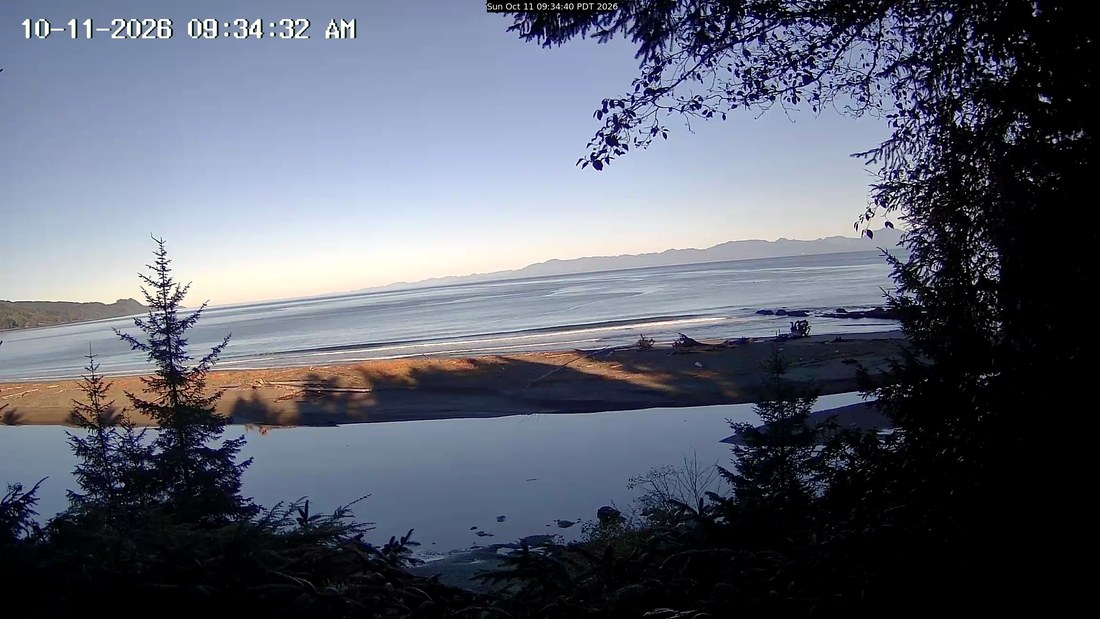
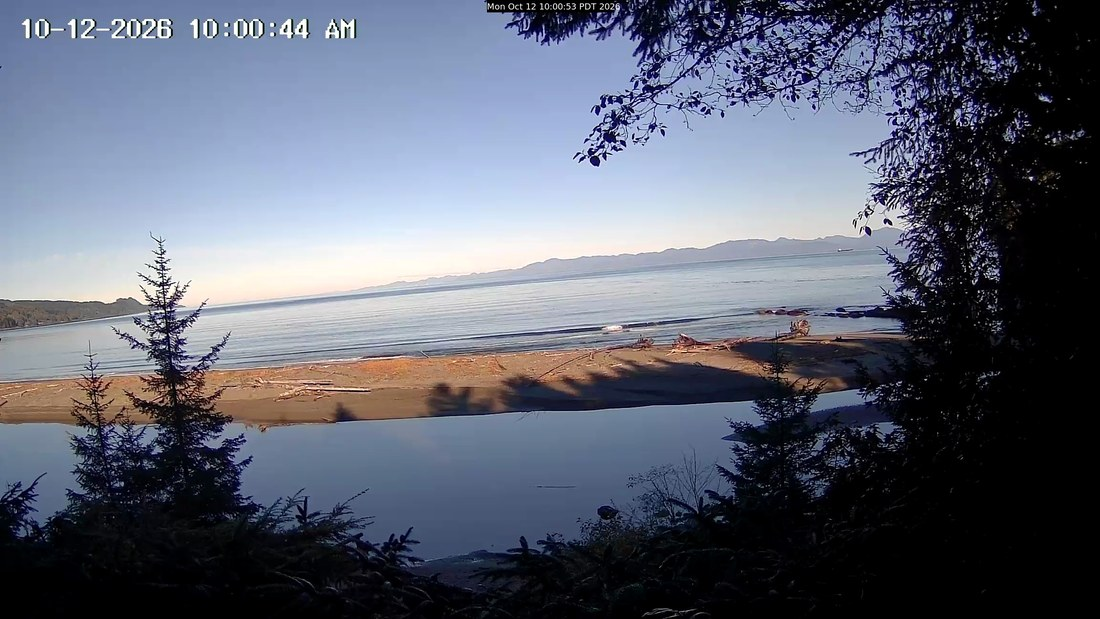
Cam capture 2026-10-12_1000

diff --git a/strait_cam.html b/strait_cam.html
@@ -1,1 +1,1 @@
-<!DOCTYPE html><html><head><meta charset='utf-8'><meta name='viewport' content='width=device-width, initial-scale=1'><title>The Strait cam</title><style>body{font-family:Georgia,serif;max-width:1200px;margin:0 auto;padding:24px}h1{margin:0 0 10px}.intro{color:#666;font-size:14px;margin:0 0 24px}.day-card{margin:0 0 30px}.day-card h3{margin:0 0 10px;font-size:22px}.time{color:#888;font-weight:400}.meta{color:#666;font-size:13px;font-weight:400}.frame-grid{display:grid;grid-template-columns:repeat(3,minmax(0,1fr));gap:10px}.frame-btn{background:#fff;border:1px solid #ddd;padding:0;cursor:pointer}.frame-img{display:block;width:100%;height:auto}.hint{font-size:12px;color:#666;margin-top:6px}.lightbox{position:fixed;inset:0;background:rgba(0,0,0,.92);display:none;align-items:center;justify-content:center;padding:20px;z-index:1000}.lightbox.open{display:flex}.lightbox img{max-width:100%;max-height:100%;object-fit:contain}.lightbox-close{position:absolute;top:14px;right:14px;font-size:28px;line-height:1;border:1px solid #fff;background:rgba(0,0,0,.35);color:#fff;padding:4px 12px;cursor:pointer}</style></head><body><h1>The Strait — cam review</h1><p class='intro'>Three morning frames per day (9/10/11am) from the Sekiu/Hoko cam — each is the most active of its ~5-min burst. Forward-only (no archive before we started). Click a thumbnail to expand.</p><section class='day-card'><h3>2026-10-12 <span class='meta'>Angeles Pt buoy 1.3ft @ 8s · verdict SKIP</span></h3><div class='frame-grid'><figure style='margin:0'><button type='button' class='frame-btn'><img src='cam/2026-10-12_0900_strait.jpg' class='frame-img' data-full='cam/2026-10-12_0900_strait.jpg' alt='Strait (Sekiu/Hoko) 2026-10-12 09:00'></button><figcaption class='small' style='text-align:center;color:#888'>09:00</figcaption></figure></div><div class='hint'>Most-active frame from each ~5-min burst (we keep the one with the most whitewater, since the strait is flat between sets). Sekiu/Hoko cam, W entrance ~40mi W of the spot — a read on swell &amp; wind arriving, not the break. Click any frame to enlarge.</div></section><section class='day-card'><h3>2026-10-11 <span class='meta'>Angeles Pt buoy 2.3ft @ 10s · verdict SKIP</span></h3><div class='frame-grid'><figure style='margin:0'><button type='button' class='frame-btn'><img src='cam/2026-10-11_0900_strait.jpg' class='frame-img' data-full='cam/2026-10-11_0900_strait.jpg' alt='Strait (Sekiu/Hoko) 2026-10-11 09:00'></button><figcaption class='small' style='text-align:center;color:#888'>09:00</figcaption></figure><figure style='margin:0'><button type='button' class='frame-btn'><img src='cam/2026-10-11_1000_strait.jpg' class='frame-img' data-full='cam/2026-10-11_1000_strait.jpg' alt='Strait (Sekiu/Hoko) 2026-10-11 10:00'></button><figcaption class='small' style='text-align:center;color:#888'>10:00</figcaption></figure><figure style='margin:0'><button type='button' class='frame-btn'><img src='cam/2026-10-11_1100_strait.jpg' class='frame-img' data-full='cam/2026-10-11_1100_strait.jpg' alt='Strait (Sekiu/Hoko) 2026-10-11 11:00'></button><figcaption class='small' style='text-align:center;color:#888'>11:00</figcaption></figure></div><div class='hint'>Most-active frame from each ~5-min burst (we keep the one with the most whitewater, since the strait is flat between sets). Sekiu/Hoko cam, W entrance ~40mi W of the spot — a read on swell &amp; wind arriving, not the break. Click any frame to enlarge.</div></section><section class='day-card'><h3>2026-10-10 <span class='meta'>Angeles Pt buoy 5.9ft @ 11s · verdict GO</span></h3><div class='frame-grid'><figure style='margin:0'><button type='button' class='frame-btn'><img src='cam/2026-10-10_0900_strait.jpg' class='frame-img' data-full='cam/2026-10-10_0900_strait.jpg' alt='Strait (Sekiu/Hoko) 2026-10-10 09:00'></button><figcaption class='small' style='text-align:center;color:#888'>09:00</figcaption></figure><figure style='margin:0'><button type='button' class='frame-btn'><img src='cam/2026-10-10_1000_strait.jpg' class='frame-img' data-full='cam/2026-10-10_1000_strait.jpg' alt='Strait (Sekiu/Hoko) 2026-10-10 10:00'></button><figcaption class='small' style='text-align:center;color:#888'>10:00</figcaption></figure><figure style='margin:0'><button type='button' class='frame-btn'><img src='cam/2026-10-10_1100_strait.jpg' class='frame-img' data-full='cam/2026-10-10_1100_strait.jpg' alt='Strait (Sekiu/Hoko) 2026-10-10 11:00'></button><figcaption class='small' style='text-align:center;color:#888'>11:00</figcaption></figure></div><div class='hint'>Most-active frame from each ~5-min burst (we keep the one with the most whitewater, since the strait is flat between sets). Sekiu/Hoko cam, W entrance ~40mi W of the spot — a read on swell &amp; wind arriving, not the break. Click any frame to enlarge.</div></section><section class='day-card'><h3>2026-10-09 <span class='meta'>Angeles Pt buoy 5.2ft @ 10s · verdict MAYBE</span></h3><div class='frame-grid'><figure style='margin:0'><button type='button' class='frame-btn'><img src='cam/2026-10-09_0900_strait.jpg' class='frame-img' data-full='cam/2026-10-09_0900_strait.jpg' alt='Strait (Sekiu/Hoko) 2026-10-09 09:00'></button><figcaption class='small' style='text-align:center;color:#888'>09:00</figcaption></figure><figure style='margin:0'><button type='button' class='frame-btn'><img src='cam/2026-10-09_1000_strait.jpg' class='frame-img' data-full='cam/2026-10-09_1000_strait.jpg' alt='Strait (Sekiu/Hoko) 2026-10-09 10:00'></button><figcaption class='small' style='text-align:center;color:#888'>10:00</figcaption></figure><figure style='margin:0'><button type='button' class='frame-btn'><img src='cam/2026-10-09_1100_strait.jpg' class='frame-img' data-full='cam/2026-10-09_1100_strait.jpg' alt='Strait (Sekiu/Hoko) 2026-10-09 11:00'></button><figcaption class='small' style='text-align:center;color:#888'>11:00</figcaption></figure></div><div class='hint'>Most-active frame from each ~5-min burst (we keep the one with the most whitewater, since the strait is flat between sets). Sekiu/Hoko cam, W entrance ~40mi W of the spot — a read on swell &amp; wind arriving, not the break. Click any frame to enlarge.</div></section><section class='day-card'><h3>2026-10-08 <span class='meta'>Angeles Pt buoy 4.3ft @ 5s · verdict GO</span></h3><div class='frame-grid'><figure style='margin:0'><button type='button' class='frame-btn'><img src='cam/2026-10-08_0900_strait.jpg' class='frame-img' data-full='cam/2026-10-08_0900_strait.jpg' alt='Strait (Sekiu/Hoko) 2026-10-08 09:00'></button><figcaption class='small' style='text-align:center;color:#888'>09:00</figcaption></figure><figure style='margin:0'><button type='button' class='frame-btn'><img src='cam/2026-10-08_1000_strait.jpg' class='frame-img' data-full='cam/2026-10-08_1000_strait.jpg' alt='Strait (Sekiu/Hoko) 2026-10-08 10:00'></button><figcaption class='small' style='text-align:center;color:#888'>10:00</figcaption></figure><figure style='margin:0'><button type='button' class='frame-btn'><img src='cam/2026-10-08_1100_strait.jpg' class='frame-img' data-full='cam/2026-10-08_1100_strait.jpg' alt='Strait (Sekiu/Hoko) 2026-10-08 11:00'></button><figcaption class='small' style='text-align:center;color:#888'>11:00</figcaption></figure></div><div class='hint'>Most-active frame from each ~5-min burst (we keep the one with the most whitewater, since the strait is flat between sets). Sekiu/Hoko cam, W entrance ~40mi W of the spot — a read on swell &amp; wind arriving, not the break. Click any frame to enlarge.</div></section><section class='day-card'><h3>2026-10-07 <span class='meta'>Angeles Pt buoy 3.6ft @ 10s · verdict GO</span></h3><div class='frame-grid'><figure style='margin:0'><button type='button' class='frame-btn'><img src='cam/2026-10-07_0900_strait.jpg' class='frame-img' data-full='cam/2026-10-07_0900_strait.jpg' alt='Strait (Sekiu/Hoko) 2026-10-07 09:00'></button><figcaption class='small' style='text-align:center;color:#888'>09:00</figcaption></figure><figure style='margin:0'><button type='button' class='frame-btn'><img src='cam/2026-10-07_1000_strait.jpg' class='frame-img' data-full='cam/2026-10-07_1000_strait.jpg' alt='Strait (Sekiu/Hoko) 2026-10-07 10:00'></button><figcaption class='small' style='text-align:center;color:#888'>10:00</figcaption></figure><figure style='margin:0'><button type='button' class='frame-btn'><img src='cam/2026-10-07_1100_strait.jpg' class='frame-img' data-full='cam/2026-10-07_1100_strait.jpg' alt='Strait (Sekiu/Hoko) 2026-10-07 11:00'></button><figcaption class='small' style='text-align:center;color:#888'>11:00</figcaption></figure></div><div class='hint'>Most-active frame from each ~5-min burst (we keep the one with the most whitewater, since the strait is flat between sets). Sekiu/Hoko cam, W entrance ~40mi W of the spot — a read on swell &amp; wind arriving, not the break. Click any frame to enlarge.</div></section><section class='day-card'><h3>2026-10-06 <span class='meta'>Angeles Pt buoy 2.6ft @ 9s · verdict SKIP</span></h3><div class='frame-grid'><figure style='margin:0'><button type='button' class='frame-btn'><img src='cam/2026-10-06_0900_strait.jpg' class='frame-img' data-full='cam/2026-10-06_0900_strait.jpg' alt='Strait (Sekiu/Hoko) 2026-10-06 09:00'></button><figcaption class='small' style='text-align:center;color:#888'>09:00</figcaption></figure><figure style='margin:0'><button type='button' class='frame-btn'><img src='cam/2026-10-06_1000_strait.jpg' class='frame-img' data-full='cam/2026-10-06_1000_strait.jpg' alt='Strait (Sekiu/Hoko) 2026-10-06 10:00'></button><figcaption class='small' style='text-align:center;color:#888'>10:00</figcaption></figure><figure style='margin:0'><button type='button' class='frame-btn'><img src='cam/2026-10-06_1100_strait.jpg' class='frame-img' data-full='cam/2026-10-06_1100_strait.jpg' alt='Strait (Sekiu/Hoko) 2026-10-06 11:00'></button><figcaption class='small' style='text-align:center;color:#888'>11:00</figcaption></figure></div><div class='hint'>Most-active frame from each ~5-min burst (we keep the one with the most whitewater, since the strait is flat between sets). Sekiu/Hoko cam, W entrance ~40mi W of the spot — a read on swell &amp; wind arriving, not the break. Click any frame to enlarge.</div></section><section class='day-card'><h3>2026-10-05 <span class='meta'>Angeles Pt buoy 3.3ft @ 10s · verdict SKIP</span></h3><div class='frame-grid'><figure style='margin:0'><button type='button' class='frame-btn'><img src='cam/2026-10-05_0900_strait.jpg' class='frame-img' data-full='cam/2026-10-05_0900_strait.jpg' alt='Strait (Sekiu/Hoko) 2026-10-05 09:00'></button><figcaption class='small' style='text-align:center;color:#888'>09:00</figcaption></figure><figure style='margin:0'><button type='button' class='frame-btn'><img src='cam/2026-10-05_1000_strait.jpg' class='frame-img' data-full='cam/2026-10-05_1000_strait.jpg' alt='Strait (Sekiu/Hoko) 2026-10-05 10:00'></button><figcaption class='small' style='text-align:center;color:#888'>10:00</figcaption></figure><figure style='margin:0'><button type='button' class='frame-btn'><img src='cam/2026-10-05_1100_strait.jpg' class='frame-img' data-full='cam/2026-10-05_1100_strait.jpg' alt='Strait (Sekiu/Hoko) 2026-10-05 11:00'></button><figcaption class='small' style='text-align:center;color:#888'>11:00</figcaption></figure></div><div class='hint'>Most-active frame from each ~5-min burst (we keep the one with the most whitewater, since the strait is flat between sets). Sekiu/Hoko cam, W entrance ~40mi W of the spot — a read on swell &amp; wind arriving, not the break. Click any frame to enlarge.</div></section><div id='lightbox' class='lightbox' aria-hidden='true'><button id='lightbox-close' class='lightbox-close' aria-label='Close image view'>&times;</button><img id='lightbox-image' alt='Selected frame'></div><script>const lightbox=document.getElementById('lightbox');const lightboxImg=document.getElementById('lightbox-image');const closeBtn=document.getElementById('lightbox-close');document.querySelectorAll('.frame-img').forEach((img)=>{img.addEventListener('click',()=>{lightboxImg.src=img.dataset.full||img.src;lightbox.classList.add('open');lightbox.setAttribute('aria-hidden','false');});});function closeLightbox(){lightbox.classList.remove('open');lightbox.setAttribute('aria-hidden','true');lightboxImg.src='';}closeBtn.addEventListener('click',closeLightbox);lightbox.addEventListener('click',(e)=>{if(e.target===lightbox){closeLightbox();}});document.addEventListener('keydown',(e)=>{if(e.key==='Escape'&&lightbox.classList.contains('open')){closeLightbox();}});</script></body></html>
+<!DOCTYPE html><html><head><meta charset='utf-8'><meta name='viewport' content='width=device-width, initial-scale=1'><title>The Strait cam</title><style>body{font-family:Georgia,serif;max-width:1200px;margin:0 auto;padding:24px}h1{margin:0 0 10px}.intro{color:#666;font-size:14px;margin:0 0 24px}.day-card{margin:0 0 30px}.day-card h3{margin:0 0 10px;font-size:22px}.time{color:#888;font-weight:400}.meta{color:#666;font-size:13px;font-weight:400}.frame-grid{display:grid;grid-template-columns:repeat(3,minmax(0,1fr));gap:10px}.frame-btn{background:#fff;border:1px solid #ddd;padding:0;cursor:pointer}.frame-img{display:block;width:100%;height:auto}.hint{font-size:12px;color:#666;margin-top:6px}.lightbox{position:fixed;inset:0;background:rgba(0,0,0,.92);display:none;align-items:center;justify-content:center;padding:20px;z-index:1000}.lightbox.open{display:flex}.lightbox img{max-width:100%;max-height:100%;object-fit:contain}.lightbox-close{position:absolute;top:14px;right:14px;font-size:28px;line-height:1;border:1px solid #fff;background:rgba(0,0,0,.35);color:#fff;padding:4px 12px;cursor:pointer}</style></head><body><h1>The Strait — cam review</h1><p class='intro'>Three morning frames per day (9/10/11am) from the Sekiu/Hoko cam — each is the most active of its ~5-min burst. Forward-only (no archive before we started). Click a thumbnail to expand.</p><section class='day-card'><h3>2026-10-12 <span class='meta'>Angeles Pt buoy 1.3ft @ 8s · verdict SKIP</span></h3><div class='frame-grid'><figure style='margin:0'><button type='button' class='frame-btn'><img src='cam/2026-10-12_0900_strait.jpg' class='frame-img' data-full='cam/2026-10-12_0900_strait.jpg' alt='Strait (Sekiu/Hoko) 2026-10-12 09:00'></button><figcaption class='small' style='text-align:center;color:#888'>09:00</figcaption></figure><figure style='margin:0'><button type='button' class='frame-btn'><img src='cam/2026-10-12_1000_strait.jpg' class='frame-img' data-full='cam/2026-10-12_1000_strait.jpg' alt='Strait (Sekiu/Hoko) 2026-10-12 10:00'></button><figcaption class='small' style='text-align:center;color:#888'>10:00</figcaption></figure></div><div class='hint'>Most-active frame from each ~5-min burst (we keep the one with the most whitewater, since the strait is flat between sets). Sekiu/Hoko cam, W entrance ~40mi W of the spot — a read on swell &amp; wind arriving, not the break. Click any frame to enlarge.</div></section><section class='day-card'><h3>2026-10-11 <span class='meta'>Angeles Pt buoy 2.3ft @ 10s · verdict SKIP</span></h3><div class='frame-grid'><figure style='margin:0'><button type='button' class='frame-btn'><img src='cam/2026-10-11_0900_strait.jpg' class='frame-img' data-full='cam/2026-10-11_0900_strait.jpg' alt='Strait (Sekiu/Hoko) 2026-10-11 09:00'></button><figcaption class='small' style='text-align:center;color:#888'>09:00</figcaption></figure><figure style='margin:0'><button type='button' class='frame-btn'><img src='cam/2026-10-11_1000_strait.jpg' class='frame-img' data-full='cam/2026-10-11_1000_strait.jpg' alt='Strait (Sekiu/Hoko) 2026-10-11 10:00'></button><figcaption class='small' style='text-align:center;color:#888'>10:00</figcaption></figure><figure style='margin:0'><button type='button' class='frame-btn'><img src='cam/2026-10-11_1100_strait.jpg' class='frame-img' data-full='cam/2026-10-11_1100_strait.jpg' alt='Strait (Sekiu/Hoko) 2026-10-11 11:00'></button><figcaption class='small' style='text-align:center;color:#888'>11:00</figcaption></figure></div><div class='hint'>Most-active frame from each ~5-min burst (we keep the one with the most whitewater, since the strait is flat between sets). Sekiu/Hoko cam, W entrance ~40mi W of the spot — a read on swell &amp; wind arriving, not the break. Click any frame to enlarge.</div></section><section class='day-card'><h3>2026-10-10 <span class='meta'>Angeles Pt buoy 5.9ft @ 11s · verdict GO</span></h3><div class='frame-grid'><figure style='margin:0'><button type='button' class='frame-btn'><img src='cam/2026-10-10_0900_strait.jpg' class='frame-img' data-full='cam/2026-10-10_0900_strait.jpg' alt='Strait (Sekiu/Hoko) 2026-10-10 09:00'></button><figcaption class='small' style='text-align:center;color:#888'>09:00</figcaption></figure><figure style='margin:0'><button type='button' class='frame-btn'><img src='cam/2026-10-10_1000_strait.jpg' class='frame-img' data-full='cam/2026-10-10_1000_strait.jpg' alt='Strait (Sekiu/Hoko) 2026-10-10 10:00'></button><figcaption class='small' style='text-align:center;color:#888'>10:00</figcaption></figure><figure style='margin:0'><button type='button' class='frame-btn'><img src='cam/2026-10-10_1100_strait.jpg' class='frame-img' data-full='cam/2026-10-10_1100_strait.jpg' alt='Strait (Sekiu/Hoko) 2026-10-10 11:00'></button><figcaption class='small' style='text-align:center;color:#888'>11:00</figcaption></figure></div><div class='hint'>Most-active frame from each ~5-min burst (we keep the one with the most whitewater, since the strait is flat between sets). Sekiu/Hoko cam, W entrance ~40mi W of the spot — a read on swell &amp; wind arriving, not the break. Click any frame to enlarge.</div></section><section class='day-card'><h3>2026-10-09 <span class='meta'>Angeles Pt buoy 5.2ft @ 10s · verdict MAYBE</span></h3><div class='frame-grid'><figure style='margin:0'><button type='button' class='frame-btn'><img src='cam/2026-10-09_0900_strait.jpg' class='frame-img' data-full='cam/2026-10-09_0900_strait.jpg' alt='Strait (Sekiu/Hoko) 2026-10-09 09:00'></button><figcaption class='small' style='text-align:center;color:#888'>09:00</figcaption></figure><figure style='margin:0'><button type='button' class='frame-btn'><img src='cam/2026-10-09_1000_strait.jpg' class='frame-img' data-full='cam/2026-10-09_1000_strait.jpg' alt='Strait (Sekiu/Hoko) 2026-10-09 10:00'></button><figcaption class='small' style='text-align:center;color:#888'>10:00</figcaption></figure><figure style='margin:0'><button type='button' class='frame-btn'><img src='cam/2026-10-09_1100_strait.jpg' class='frame-img' data-full='cam/2026-10-09_1100_strait.jpg' alt='Strait (Sekiu/Hoko) 2026-10-09 11:00'></button><figcaption class='small' style='text-align:center;color:#888'>11:00</figcaption></figure></div><div class='hint'>Most-active frame from each ~5-min burst (we keep the one with the most whitewater, since the strait is flat between sets). Sekiu/Hoko cam, W entrance ~40mi W of the spot — a read on swell &amp; wind arriving, not the break. Click any frame to enlarge.</div></section><section class='day-card'><h3>2026-10-08 <span class='meta'>Angeles Pt buoy 4.3ft @ 5s · verdict GO</span></h3><div class='frame-grid'><figure style='margin:0'><button type='button' class='frame-btn'><img src='cam/2026-10-08_0900_strait.jpg' class='frame-img' data-full='cam/2026-10-08_0900_strait.jpg' alt='Strait (Sekiu/Hoko) 2026-10-08 09:00'></button><figcaption class='small' style='text-align:center;color:#888'>09:00</figcaption></figure><figure style='margin:0'><button type='button' class='frame-btn'><img src='cam/2026-10-08_1000_strait.jpg' class='frame-img' data-full='cam/2026-10-08_1000_strait.jpg' alt='Strait (Sekiu/Hoko) 2026-10-08 10:00'></button><figcaption class='small' style='text-align:center;color:#888'>10:00</figcaption></figure><figure style='margin:0'><button type='button' class='frame-btn'><img src='cam/2026-10-08_1100_strait.jpg' class='frame-img' data-full='cam/2026-10-08_1100_strait.jpg' alt='Strait (Sekiu/Hoko) 2026-10-08 11:00'></button><figcaption class='small' style='text-align:center;color:#888'>11:00</figcaption></figure></div><div class='hint'>Most-active frame from each ~5-min burst (we keep the one with the most whitewater, since the strait is flat between sets). Sekiu/Hoko cam, W entrance ~40mi W of the spot — a read on swell &amp; wind arriving, not the break. Click any frame to enlarge.</div></section><section class='day-card'><h3>2026-10-07 <span class='meta'>Angeles Pt buoy 3.6ft @ 10s · verdict GO</span></h3><div class='frame-grid'><figure style='margin:0'><button type='button' class='frame-btn'><img src='cam/2026-10-07_0900_strait.jpg' class='frame-img' data-full='cam/2026-10-07_0900_strait.jpg' alt='Strait (Sekiu/Hoko) 2026-10-07 09:00'></button><figcaption class='small' style='text-align:center;color:#888'>09:00</figcaption></figure><figure style='margin:0'><button type='button' class='frame-btn'><img src='cam/2026-10-07_1000_strait.jpg' class='frame-img' data-full='cam/2026-10-07_1000_strait.jpg' alt='Strait (Sekiu/Hoko) 2026-10-07 10:00'></button><figcaption class='small' style='text-align:center;color:#888'>10:00</figcaption></figure><figure style='margin:0'><button type='button' class='frame-btn'><img src='cam/2026-10-07_1100_strait.jpg' class='frame-img' data-full='cam/2026-10-07_1100_strait.jpg' alt='Strait (Sekiu/Hoko) 2026-10-07 11:00'></button><figcaption class='small' style='text-align:center;color:#888'>11:00</figcaption></figure></div><div class='hint'>Most-active frame from each ~5-min burst (we keep the one with the most whitewater, since the strait is flat between sets). Sekiu/Hoko cam, W entrance ~40mi W of the spot — a read on swell &amp; wind arriving, not the break. Click any frame to enlarge.</div></section><section class='day-card'><h3>2026-10-06 <span class='meta'>Angeles Pt buoy 2.6ft @ 9s · verdict SKIP</span></h3><div class='frame-grid'><figure style='margin:0'><button type='button' class='frame-btn'><img src='cam/2026-10-06_0900_strait.jpg' class='frame-img' data-full='cam/2026-10-06_0900_strait.jpg' alt='Strait (Sekiu/Hoko) 2026-10-06 09:00'></button><figcaption class='small' style='text-align:center;color:#888'>09:00</figcaption></figure><figure style='margin:0'><button type='button' class='frame-btn'><img src='cam/2026-10-06_1000_strait.jpg' class='frame-img' data-full='cam/2026-10-06_1000_strait.jpg' alt='Strait (Sekiu/Hoko) 2026-10-06 10:00'></button><figcaption class='small' style='text-align:center;color:#888'>10:00</figcaption></figure><figure style='margin:0'><button type='button' class='frame-btn'><img src='cam/2026-10-06_1100_strait.jpg' class='frame-img' data-full='cam/2026-10-06_1100_strait.jpg' alt='Strait (Sekiu/Hoko) 2026-10-06 11:00'></button><figcaption class='small' style='text-align:center;color:#888'>11:00</figcaption></figure></div><div class='hint'>Most-active frame from each ~5-min burst (we keep the one with the most whitewater, since the strait is flat between sets). Sekiu/Hoko cam, W entrance ~40mi W of the spot — a read on swell &amp; wind arriving, not the break. Click any frame to enlarge.</div></section><section class='day-card'><h3>2026-10-05 <span class='meta'>Angeles Pt buoy 3.3ft @ 10s · verdict SKIP</span></h3><div class='frame-grid'><figure style='margin:0'><button type='button' class='frame-btn'><img src='cam/2026-10-05_0900_strait.jpg' class='frame-img' data-full='cam/2026-10-05_0900_strait.jpg' alt='Strait (Sekiu/Hoko) 2026-10-05 09:00'></button><figcaption class='small' style='text-align:center;color:#888'>09:00</figcaption></figure><figure style='margin:0'><button type='button' class='frame-btn'><img src='cam/2026-10-05_1000_strait.jpg' class='frame-img' data-full='cam/2026-10-05_1000_strait.jpg' alt='Strait (Sekiu/Hoko) 2026-10-05 10:00'></button><figcaption class='small' style='text-align:center;color:#888'>10:00</figcaption></figure><figure style='margin:0'><button type='button' class='frame-btn'><img src='cam/2026-10-05_1100_strait.jpg' class='frame-img' data-full='cam/2026-10-05_1100_strait.jpg' alt='Strait (Sekiu/Hoko) 2026-10-05 11:00'></button><figcaption class='small' style='text-align:center;color:#888'>11:00</figcaption></figure></div><div class='hint'>Most-active frame from each ~5-min burst (we keep the one with the most whitewater, since the strait is flat between sets). Sekiu/Hoko cam, W entrance ~40mi W of the spot — a read on swell &amp; wind arriving, not the break. Click any frame to enlarge.</div></section><div id='lightbox' class='lightbox' aria-hidden='true'><button id='lightbox-close' class='lightbox-close' aria-label='Close image view'>&times;</button><img id='lightbox-image' alt='Selected frame'></div><script>const lightbox=document.getElementById('lightbox');const lightboxImg=document.getElementById('lightbox-image');const closeBtn=document.getElementById('lightbox-close');document.querySelectorAll('.frame-img').forEach((img)=>{img.addEventListener('click',()=>{lightboxImg.src=img.dataset.full||img.src;lightbox.classList.add('open');lightbox.setAttribute('aria-hidden','false');});});function closeLightbox(){lightbox.classList.remove('open');lightbox.setAttribute('aria-hidden','true');lightboxImg.src='';}closeBtn.addEventListener('click',closeLightbox);lightbox.addEventListener('click',(e)=>{if(e.target===lightbox){closeLightbox();}});document.addEventListener('keydown',(e)=>{if(e.key==='Escape'&&lightbox.classList.contains('open')){closeLightbox();}});</script></body></html>
